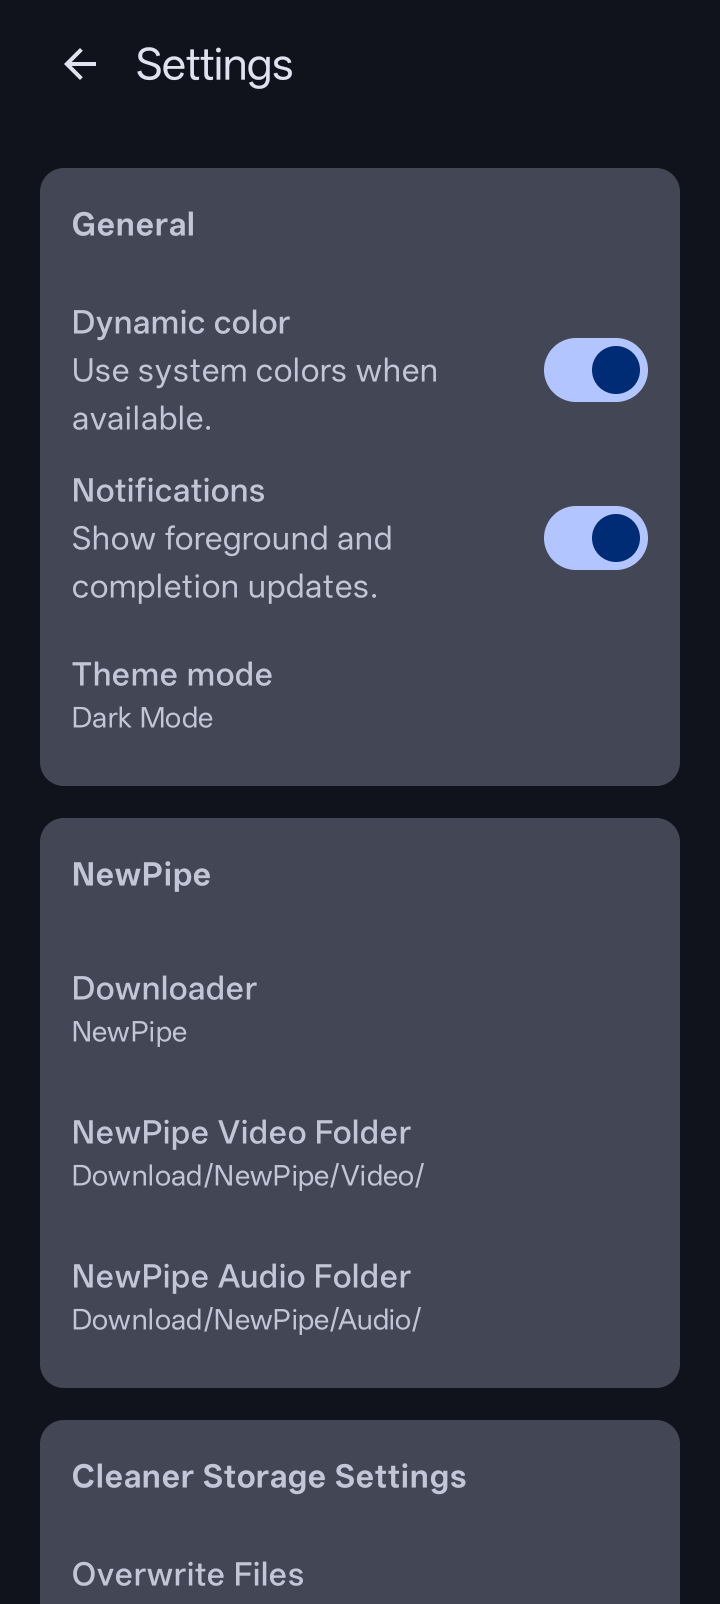
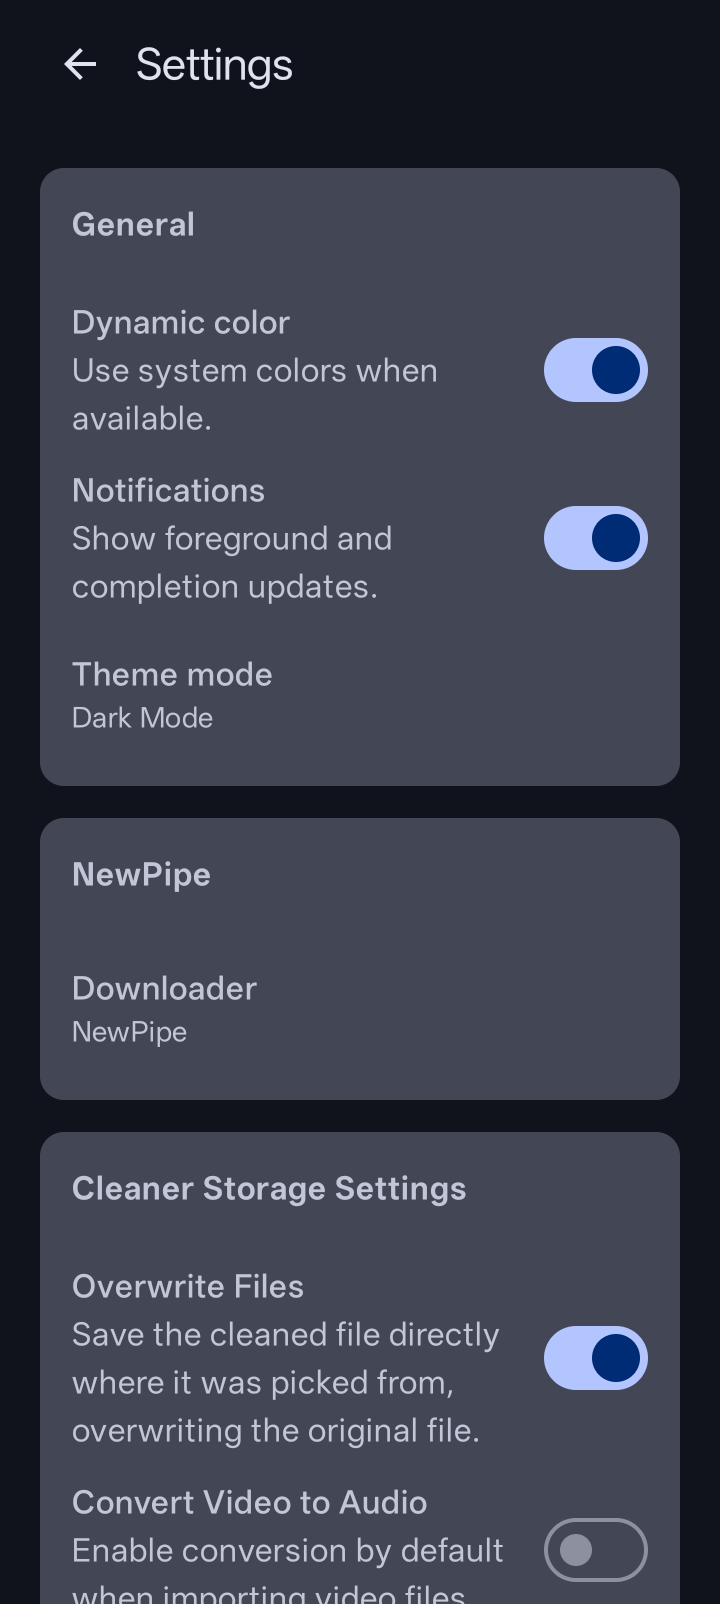
chore: bump version to v1.3.0

Changed region(s): [[0.0306, 0.7793, 0.9472, 1.0], [0.0306, 0.6546, 0.9472, 0.7481], [0.7639, 0.9352, 0.825, 0.9975]]

diff --git a/CHANGELOG.md b/CHANGELOG.md
@@ -4,6 +4,27 @@ All notable changes to this project will be documented in this file.
 
 ---
 
+## [1.3.0] - 2026-06-10
+
+### Added
+
+- 5b5558d  feat: Add Folders to Watchlist for watching downloaded file
+- 90bf43d  feat: add runtime segment selection
+
+### Style
+
+- ab6798c  style: Update Logging and Style Errors
+
+### Refactor
+
+- 213f207  refactor: remove reduntant new pipe folder watching
+- 2e04df4  refactor: removed scanning for folders outside watchlist
+- 54787c2  refactor: remove "keep temp files" option
+
+### Maintenance
+
+- 9d0b3be  chore: update fastfile to list the commits in reverse
+
 ## [1.2.3] - 2026-06-10
 
 ### Added